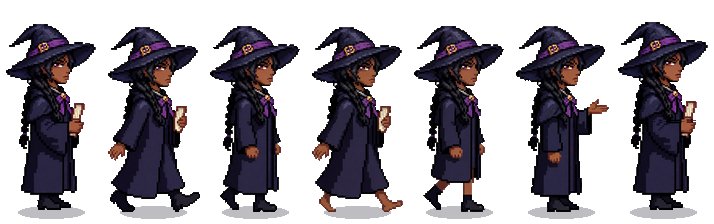
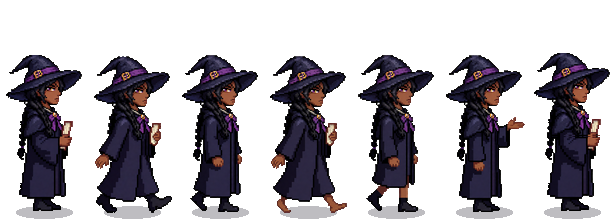
Night Watch art: Lexi drawn at the cast's height
Claude-Session: https://claude.ai/code/session_01JTmPY8Mp65o4MB5dxNnbWK

diff --git a/game/tools/watch_art/build_people.py b/game/tools/watch_art/build_people.py
@@ -5,7 +5,7 @@ from cutout import cutout
 OUT = sys.argv[1] if len(sys.argv) > 1 else 'out/people'
 os.makedirs(OUT, exist_ok=True)
 # bbox height in px for the standing frame (hats, plumes and props included), on a 360-tall view with people ~75-92 px
-HT = dict(seoyeon=76, mira=82, kai=84, dutch=92, coo=74, bru=80, kagemaru=90, lexi=94, wen=76, ayo=90, aigerim=84, chad=86,
+HT = dict(seoyeon=76, mira=82, kai=84, dutch=92, coo=74, bru=80, kagemaru=90, lexi=79, wen=76, ayo=90, aigerim=84, chad=86,
           seymour=96, hobb=74, pell=140, tess=60, doug=82, hollis=84, odu=86, fennel=84, captain=88, kevin=88,
           **{'townsfolk-1': 80, 'townsfolk-2': 84, 'townsfolk-3': 80})
 RES = 2                      # sheets are drawn at 2x and tagged scale 1/RES, so they stay sharp on high-res screens

diff --git a/game/CREDITS.md b/game/CREDITS.md
@@ -127,7 +127,7 @@ Everything else is drawn in code: portraits for characters without a painted one
 | The Renovation's scene sprites, Architect's Draft (`assets/img/reno`): the street backdrop, the map of Pingsby's Quarter, the blueprint, the lever, the Grand Opening ribbon and the map pin | Generated for this game with [PixelLab](https://pixellab.ai) on Ladi's subscription on 2026-11-16 by `tools/reno_art.py` (7 `generate-image-v2` calls, one pick per item from six of them, with the same Proving Road style image), trimmed with hard alpha edges and converted to lossless WebP; the lever's "on" position is the same sprite mirrored | Used under PixelLab's [Terms of Service](https://pixellab.ai/termsofservice) | Architect's Draft, the Renovation (`js/mode-reno.js`): the street scene, the blueprint cards, the scaffolding levers and the night's map |
 | The Renovation's living street, Architect's Draft (`assets/img/reno/street`): the street painting, the gate with its slate easel, one cottage in four states (old, renovated, under scaffolding, cracked and dark), the rented lot, a resident in two walking frames and a sooty resident, Kai standing with five faces (neutral, blink, talk, happy, worried), Sir Seymour Backups in five poses (proud, inspecting, approving, disapproving, stamping) and the scaffold, lot sign and health-check lever | Rendered by Ladi on [Sogni](https://www.sogni.ai) on 2026-11-16 and 17 (text to image with krea2turbo, and Krea 2 Image Edit from the picked render for the house states, the sooty resident and Seymour's poses), from the prompts in project files `game-modes/architects-draft/living-world/sogni-prompts.md`; Kai's body from Ladi's Kai character sheet (his Sogni persona, built on this game's lead art and PixelLab full body), and his blink, talk, happy and worried faces edited from it with Google's Gemini image model (gemini-3-pro-image-preview) and pasted back as feathered patches; cut out from their backgrounds and sized to WebP by `tools/reno_street_art.py`. The house-dark state was dimmed by hand | Generated for this game; used under Sogni's and Google's Gemini API terms for generated output | Architect's Draft, the Renovation on Beanstalk Row (`js/reno-street.js`, `js/mode-reno.js`): the street you plan on, Seymour's two runs as cutscenes, the verdict and the permit
 | The Renovation's Shrine Bridge, Blueprint Office, square, map, permit office and Wall (`assets/img/reno/street`): the bridge, office yard, town square, Quarter map, permit office and Wall paintings, a blank parchment poster and the same poster torn down, a map pin, the ribbon arch whole and cut, a cheering resident in two frames, two passing frames for the residents' walk, the wayside shrine in three states (old, rebuilt, cracked), the signpost, the alarm bell and the clockwork test walker; the site hut, records well, ledger cabinet, notice board, snapshot jar, rubble and the wax-sealed Retain tag, the brass lever and the rolled blueprint | Rendered by Ladi on [Sogni](https://www.sogni.ai) on 2026-11-16 (text to image with krea2turbo, and Krea 2 Image Edit from the picked render for the rebuilt and cracked shrines, the cut ribbon, the torn poster, the cheering resident and the passing frames), from the prompts in project files `game-modes/architects-draft/living-world/sogni-prompts-nights-2-3.md` and `sogni-prompts-finale-board-wall.md`; cut out from their backgrounds and sized to WebP by `tools/reno_street_art.py` | Generated for this game; used under Sogni's terms for generated output | Architect's Draft, the Renovation's night 2 (the Shrine Bridge) and night 3 (the office yard teardown), and the plan screen's lever and blueprint cards (`js/reno-street.js`, `js/mode-reno.js`) |
-| The Night Watch's cast (`assets/img/watch/people`): Seo-yeon (standing, walking, talking, and holding and walking with her lantern), Mira, Kai, Dutch, Postmaster Coo, Bru, Kagemaru, Lexi, Grandma Wen, Ayo, Aigerim, Chad, Sir Seymour Backups, Old Hobb, Sergeant Pell, Tess, Doug, Hollis, Odu, Fennel, the Captain, the Hooded Stranger and three unnamed townsfolk, each in strict 2D side view facing right with standing, breathing, four walking and (for quest givers) talking frames | Generated for this game with [Sogni](https://www.sogni.ai) on 2026-11-18 with Sogni's `sogni-agent` CLI on Ladi's Sogni Unlimited plan: each standing figure redrawn in side view with Krea 2 Identity Edit (`krea2_identity_edit_v1_2`) from that character's existing art in this game (`assets/img/lead`, `portraits`, `portraits-painted`, `hunt/bru`, `reno/street`), or, for the people new to this mode, drawn in the style of Seo-yeon's side-view render; the walking, talking and lantern frames edited from each standing render with the same model (the third and fourth walking frames added the same way on 2026-11-18); the breathing frame lifts the upper body by one pixel. Since 2026-11-18 the sheets are packed at twice the resolution (drawn at half scale), with Tess drawn very short and Sergeant Pell very tall. Chad redrawn on 2026-11-18 as a young first-year MBA in a navy quarter zip, light blue shirt and khakis, from his new portrait with the same model, and his frames redone from that render. Prompts in `tools/watch_art/jobs/`; cut out, scaled, given a soft shadow and packed into strips by `tools/watch_art/build_people.py` | Generated for this game; used under Sogni's terms for generated output | The Night Watch (`js/watch-art.js`): everyone who walks the town and the castle |
+| The Night Watch's cast (`assets/img/watch/people`): Seo-yeon (standing, walking, talking, and holding and walking with her lantern), Mira, Kai, Dutch, Postmaster Coo, Bru, Kagemaru, Lexi, Grandma Wen, Ayo, Aigerim, Chad, Sir Seymour Backups, Old Hobb, Sergeant Pell, Tess, Doug, Hollis, Odu, Fennel, the Captain, the Hooded Stranger and three unnamed townsfolk, each in strict 2D side view facing right with standing, breathing, four walking and (for quest givers) talking frames | Generated for this game with [Sogni](https://www.sogni.ai) on 2026-11-18 with Sogni's `sogni-agent` CLI on Ladi's Sogni Unlimited plan: each standing figure redrawn in side view with Krea 2 Identity Edit (`krea2_identity_edit_v1_2`) from that character's existing art in this game (`assets/img/lead`, `portraits`, `portraits-painted`, `hunt/bru`, `reno/street`), or, for the people new to this mode, drawn in the style of Seo-yeon's side-view render; the walking, talking and lantern frames edited from each standing render with the same model (the third and fourth walking frames added the same way on 2026-11-18); the breathing frame lifts the upper body by one pixel. Since 2026-11-18 the sheets are packed at twice the resolution (drawn at half scale), with Tess drawn very short, Sergeant Pell very tall and Lexi brought down to the cast's height. Chad redrawn on 2026-11-18 as a young first-year MBA in a navy quarter zip, light blue shirt and khakis, from his new portrait with the same model, and his frames redone from that render. Prompts in `tools/watch_art/jobs/`; cut out, scaled, given a soft shadow and packed into strips by `tools/watch_art/build_people.py` | Generated for this game; used under Sogni's terms for generated output | The Night Watch (`js/watch-art.js`): everyone who walks the town and the castle |
 | The Night Watch's wildlife (`assets/img/watch/animals`): horse, crow, rabbit, owl, pigeon, cat, goat, bat, chicken, dog, sparrow, fox, duck, heron, frog, dove, rat and butterfly, in side view with idle, walking or running, flying and sleeping frames; every bird walks on four frames (the sparrow hops), edited from its standing render on 2026-11-18 | Generated for this game with [Sogni](https://www.sogni.ai) on 2026-11-18 on Ladi's Sogni Unlimited plan: each animal drawn with Krea 2 Turbo (`krea2_turbo_fp8_scaled`) and its other poses edited from it with Krea 2 Identity Edit (`krea2_identity_edit_v1_2`); cut out and sized by `tools/watch_art/build_animals.py`. The moth, bee and firefly are drawn in code by `tools/watch_art/proc.py` | Generated for this game; used under Sogni's terms for generated output | The Night Watch's scenery-only animals (`js/watch-art.js`) |
 | The Night Watch's skies (`assets/img/watch/sky`): a day sky with the sun in the upper left and a night sky with the full moon in the upper right | Generated for this game with [Sogni](https://www.sogni.ai) on 2026-11-18 with Krea 2 Turbo (`krea2_turbo_fp8_scaled`) on Ladi's Sogni Unlimited plan; scaled and cropped to 1600x360 | Generated for this game; used under Sogni's terms for generated output | The Night Watch's sky layer behind every town level, castle window and the bridge |
 | The Night Watch's parallax layers (`assets/img/watch/levels`, `assets/img/watch/floors`): the West Road, Hill Road, Main Street and Far Lane (far hills with the castle on its hill, hazed rooftops, the street and a foreground layer), the castle's towers, upper floor, ground floor and cellars (thirteen cut-away rooms, stair towers and doorways), the bridge and the neighbour's castle. Buildings: the far gate, lookout ruin, wayside shrine, coach house, castle-hill gatehouse, post office, library, bounty board, Doug's flat, Seymour's bunker, Base Camp, the forge, the watch outpost, bakery, Cache Café, Kagemaru's stall, the lock shop, the gate out of town, the orchard cottage, the river dock, granary, town well, three town houses, trees, stairs, lamp posts, fences and bushes | Generated for this game with [Sogni](https://www.sogni.ai) on 2026-11-18 on Ladi's Sogni Unlimited plan: each building, room and prop drawn in flat side elevation with Krea 2 Turbo (`krea2_turbo_fp8_scaled`); the castle-hill gate's archway, the lock shop's sign, the bounty board's posters, the library and the bakery redone with Krea 2 Identity Edit (`krea2_identity_edit_v1_2`) or a new render so doors fit a person and no garbled lettering shows. Cut out, sized and placed at the town's spot positions by `tools/watch_art/compose.py`; the far hills, road surfaces, river boards and stone floors are drawn in code by `tools/watch_art/proc.py` | Generated for this game; used under Sogni's terms for generated output | The Night Watch's town, castle and bridge (`js/watch-art.js`) |
